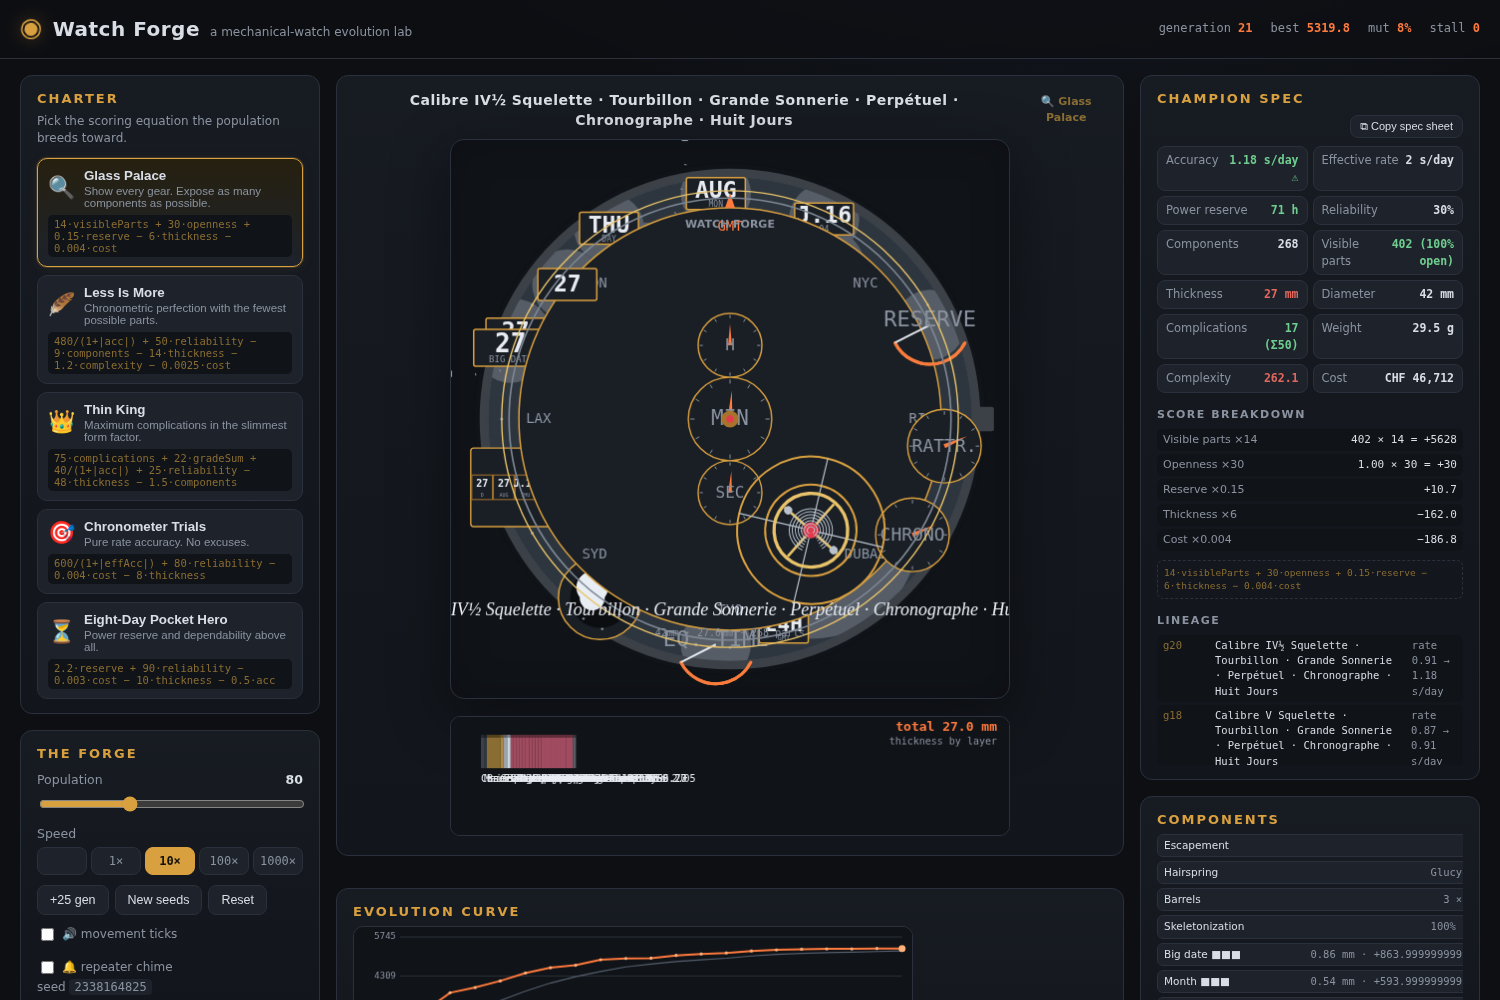
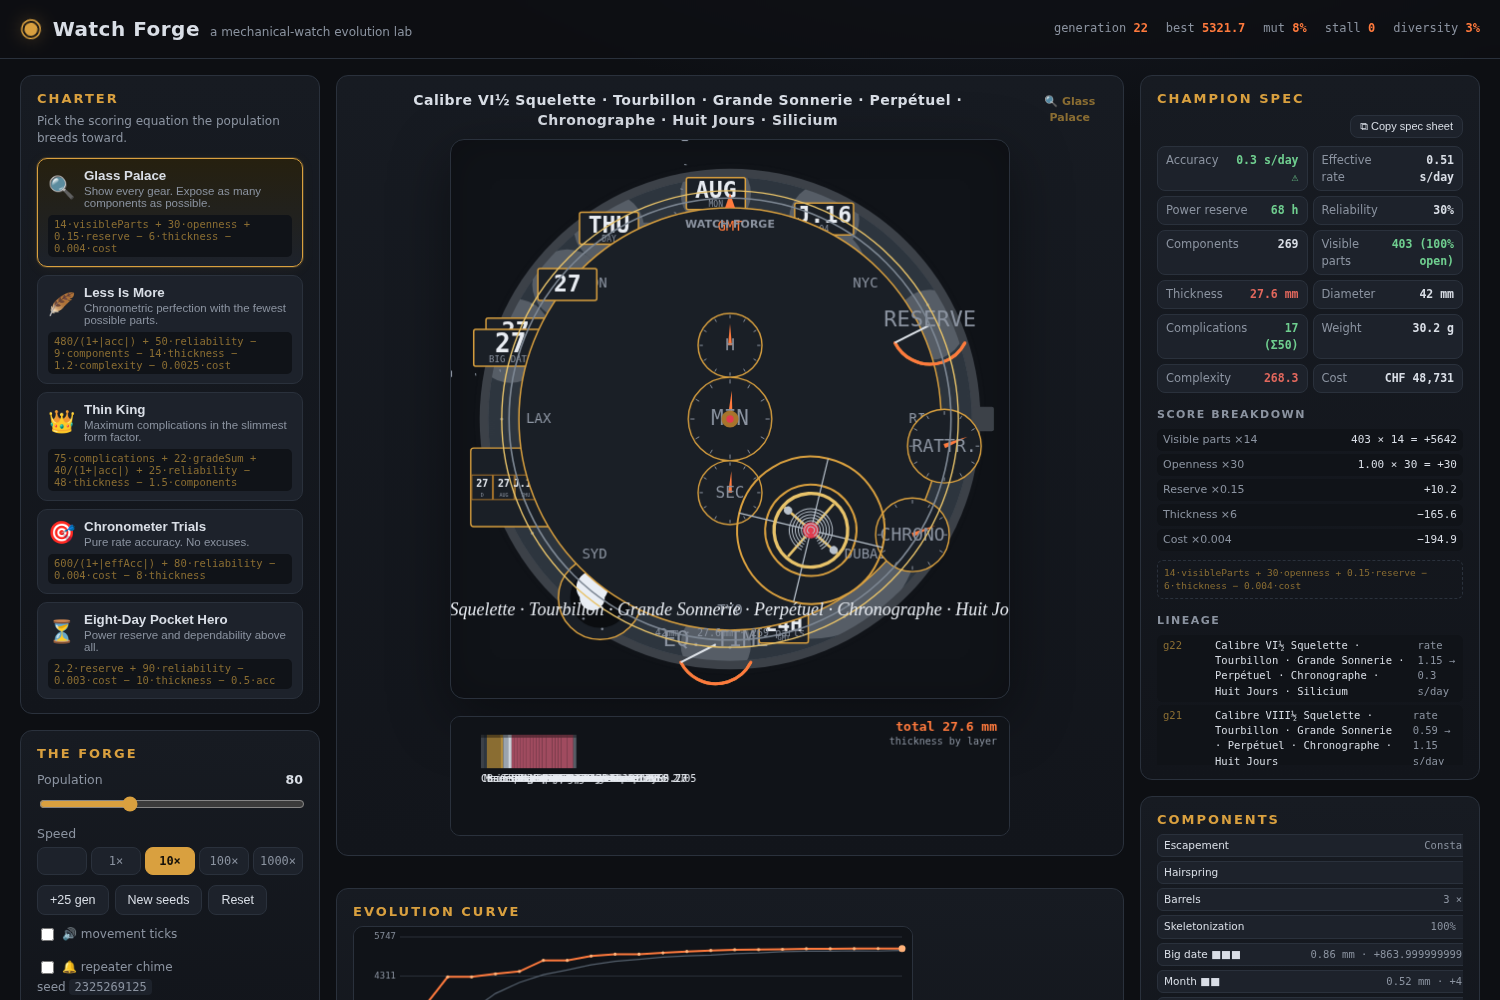
Watch Forge: themed founding cohorts + population diversity readout
Each charter now seeds its population with a pristine archetype (the
skeleton atelier opens with an openworked 15-complication monster, the
chronometer lab with a bare silicon precision engine, Thin King with a
loaded slim base) plus mutated drift, so every objective's opening is
legible and evolution pressure starts immediately. A diversity readout
in the header shows the fraction of distinct complication signatures —
when it collapses, players know to inject new seeds.

- FOUNDERS + founderArchetype + diversity() in evolution.js
- randomPopulation gains a challengeId parameter
- 3 new unit tests (31 total); docs updated

diff --git a/active/games/watch-forge/evolution.js b/active/games/watch-forge/evolution.js
@@ -234,10 +234,74 @@ function randStep(rng) { return rng() < 0.5 ? -1 : 1; }
 // Population factory
 // ---------------------------------------------------------------------------
 
-function randomPopulation(size, rng) {
+// A themed founding archetype per charter gives each objective a plausible,
+// legible starting point — a skeleton atelier opens with an openworked
+// monster, a chronometer lab opens with a bare precision engine.
+const FOUNDERS = {
+  skeleton: (rng) => ({
+    escapement: rng() < 0.7 ? 'lever' : 'coaxial', balance: 'freeSprung', hairspring: 'glucydur',
+    beat: 21600, barrels: 2, trainWheels: 8, skeleton: 90, diameter: 40,
+    complications: Object.fromEntries(['bigDate', 'day', 'moonphase', 'gmt', 'powerReserve', 'chronograph', 'perpetual']
+      .map(id => [id, 1 + Math.floor(rng() * 2)])),
+  }),
+  minimalist: () => ({
+    escapement: 'constant', balance: 'inertial', hairspring: 'silicon',
+    beat: 36000, barrels: 1, trainWheels: 3, skeleton: 10, diameter: 34,
+    complications: {},
+  }),
+  grandComplication: () => ({
+    escapement: 'coaxial', balance: 'freeSprung', hairspring: 'glucydur',
+    beat: 21600, barrels: 1, trainWheels: 3, skeleton: 50, diameter: 36,
+    complications: { moonphase: 2, gmt: 2, powerReserve: 1, perpetual: 2, chronograph: 1 },
+  }),
+  chronometer: () => ({
+    escapement: 'constant', balance: 'inertial', hairspring: 'silicon',
+    beat: 28800, barrels: 1, trainWheels: 3, skeleton: 0, diameter: 34,
+    complications: {},
+  }),
+  pocket: () => ({
+    escapement: 'lever', balance: 'screw', hairspring: 'steel',
+    beat: 18000, barrels: 3, trainWheels: 4, skeleton: 20, diameter: 42,
+    complications: { powerReserve: 1 },
+  }),
+};
+
+function founderArchetype(challengeId) {
+  const fn = FOUNDERS[challengeId];
+  return fn ? fn(W.mulberry32(seedFor(challengeId))) : null;
+}
+
+function seedFor(str) {
+  let h = 5381;
+  for (let i = 0; i < str.length; i++) h = ((h * 33) ^ str.charCodeAt(i)) >>> 0;
+  return h;
+}
+
+function randomPopulation(size, rng, challengeId) {
   const out = [];
-  for (let i = 0; i < size; i++) out.push(W.randomGenotype(rng));
+  const archetype = challengeId ? founderArchetype(challengeId) : null;
+  const founderCount = archetype ? Math.max(2, Math.round(size * 0.15)) : 0;
+  if (archetype) out.push(archtype(archetype));   // pristine founding specimen
+  for (let i = out.length; i < founderCount; i++) {
+    // Archetype plus mild drift so the founding cohort isn't a monoculture.
+    out.push(mutate(archtype(archetype), 0.22, rng));
+  }
+  for (let i = out.length; i < size; i++) out.push(W.randomGenotype(rng));
   return out;
+}
+
+function archtype(g) { return JSON.parse(JSON.stringify(g)); }
+
+// Population diversity: 1 - fraction of identical complication-signatures.
+// Collapsing diversity is the cue to hit "New seeds".
+function diversity(pop) {
+  if (pop.length < 2) return 0;
+  const seen = new Set();
+  for (const g of pop) {
+    const sig = Object.keys(g.complications).sort().join(',');
+    seen.add(sig);
+  }
+  return seen.size / Math.min(pop.length, 64);
 }
 
 function championPhenotype(pop, challengeId) {
@@ -250,7 +314,7 @@ function championPhenotype(pop, challengeId) {
   return best;
 }
 
-const EVOLUTION = { CHALLENGES, scoreWatch, evolvePopulation, randomPopulation, championPhenotype };
+const EVOLUTION = { CHALLENGES, scoreWatch, evolvePopulation, randomPopulation, championPhenotype, FOUNDERS, founderArchetype, diversity };
 
 if (typeof module !== 'undefined' && module.exports) {
   module.exports = EVOLUTION;

diff --git a/active/games/watch-forge/game.js b/active/games/watch-forge/game.js
@@ -58,6 +58,7 @@
   const els = {
     dial: $('#dialCanvas'), profile: $('#profileCanvas'), chart: $('#chartCanvas'),
     gen: $('#gen'), score: $('#score'), mutRate: $('#mutRate'), stall: $('#stall'),
+    diversity: $('#diversity'),
     name: $('#champName'), challenge: $('#champChallenge'),
     stats: $('#statGrid'), comps: $('#compList'),
     challenges: $('#challengeCards'), speeds: $('#speedButtons'),
@@ -93,7 +94,7 @@
   function newPopulation(seed) {
     if (seed === undefined) seed = G.rngSeed;
     const rng = W.mulberry32(seed);
-    G.population = E.randomPopulation(G.popSize, rng);
+    G.population = E.randomPopulation(G.popSize, rng, G.challengeId);
     G.evoState = { population: G.population.slice(), lastBest: undefined, stall: 0, mutRate: 0.08 };
     G.generation = 0;
     G.bestSeries = []; G.avgSeries = [];
@@ -183,6 +184,7 @@
     els.challenge.textContent = `${E.CHALLENGES[G.challengeId].icon} ${E.CHALLENGES[G.challengeId].name}`;
     els.mutRate.textContent = `${(G.evoState.mutRate * 100).toFixed(0)}%`;
     els.stall.textContent = String(G.evoState.stall || 0);
+    els.diversity.textContent = `${(E.diversity(G.population) * 100).toFixed(0)}%`;
 
     // Keep the audible movement in sync with the champion.
     S.setBeat(c.pheno.geno.beat);

diff --git a/active/games/watch-forge/index.html b/active/games/watch-forge/index.html
@@ -20,6 +20,7 @@
       <span>best <b id="score">—</b></span>
       <span>mut <b id="mutRate">8%</b></span>
       <span>stall <b id="stall">0</b></span>
+      <span title="share of the population with a distinct complication signature">diversity <b id="diversity">—</b></span>
     </div>
   </header>
 

diff --git a/active/games/watch-forge/docs/index.md b/active/games/watch-forge/docs/index.md
@@ -52,6 +52,12 @@ accuracy, effectiveAccuracy (= accuracy × (2 − reliability)), reliability.
 - Uniform-blend crossover with grade-biased complication inheritance
 - Per-gene mutation; **adaptive mutation** — when best fitness stalls, the
   mutation rate climbs (capped at 35%) so the search can jump local maxima
+- **Themed founding cohorts** — each charter seeds its population with a
+  pristine archetype (Glass Palace opens with an openworked 15+ complication
+  monster, Minimalist opens with a bare silicon precision engine,
+  Thin King opens complication-loaded on a slim base…) plus m,ated drift
+- `diversity(population)` reports the fraction of distinct complication
+  signatures — when it collapses, hit “New seeds”
 - `evolvePopulation` returns `{ population, scored, best, stall, mutRate,
   lastBest }` — pass `lastBest`/`stall` back in for continuity
 

diff --git a/active/games/watch-forge/README.md b/active/games/watch-forge/README.md
@@ -46,7 +46,11 @@ a minute repeater is a cathedral of parts that wrecks a slim profile.
 ## Features
 
 - **Live evolution** — speed control from pause to 1000×, population slider,
-  seed control, adaptive mutation that escapes stalls
+  seed control, adaptive mutation that escapes stalls, and a **population
+  diversity readout** (when it collapses, inject new seeds)
+- **Themed founding cohorts** — each charter opens with a fitting archetype:
+  the skeleton atelier starts with an openworked monster, the chronometer lab
+  with a bare silicon precision engine
 - **Watchmaker bench** — hand-tune a build (every gene + complication grade)
   and seed the population with it. Your build is the founding genotype.
 - **Live rendering** — skeletonized dial, thickness side-profile, and a

diff --git a/active/games/watch-forge/AGENTS.md b/active/games/watch-forge/AGENTS.md
@@ -49,6 +49,8 @@ docs/index.md       # Web docs
 - The GA is deliberately small and inspectable: rank by charter score, keep
   elites, uniform-blend crossover, adaptive mutation that rises when the best
   fitness stalls.
+- Every charter gets a themed founder archetype (see `FOUNDERS` in
+  `evolution.js`); keep them visually distinct when tuning.
 - **Never rebalance a charter equation without updating
   `tests/fitness.test.mjs`** — every charter has a behavioural lock (e.g.
   "skeletonizing an identical build scores higher", "loaded complications
